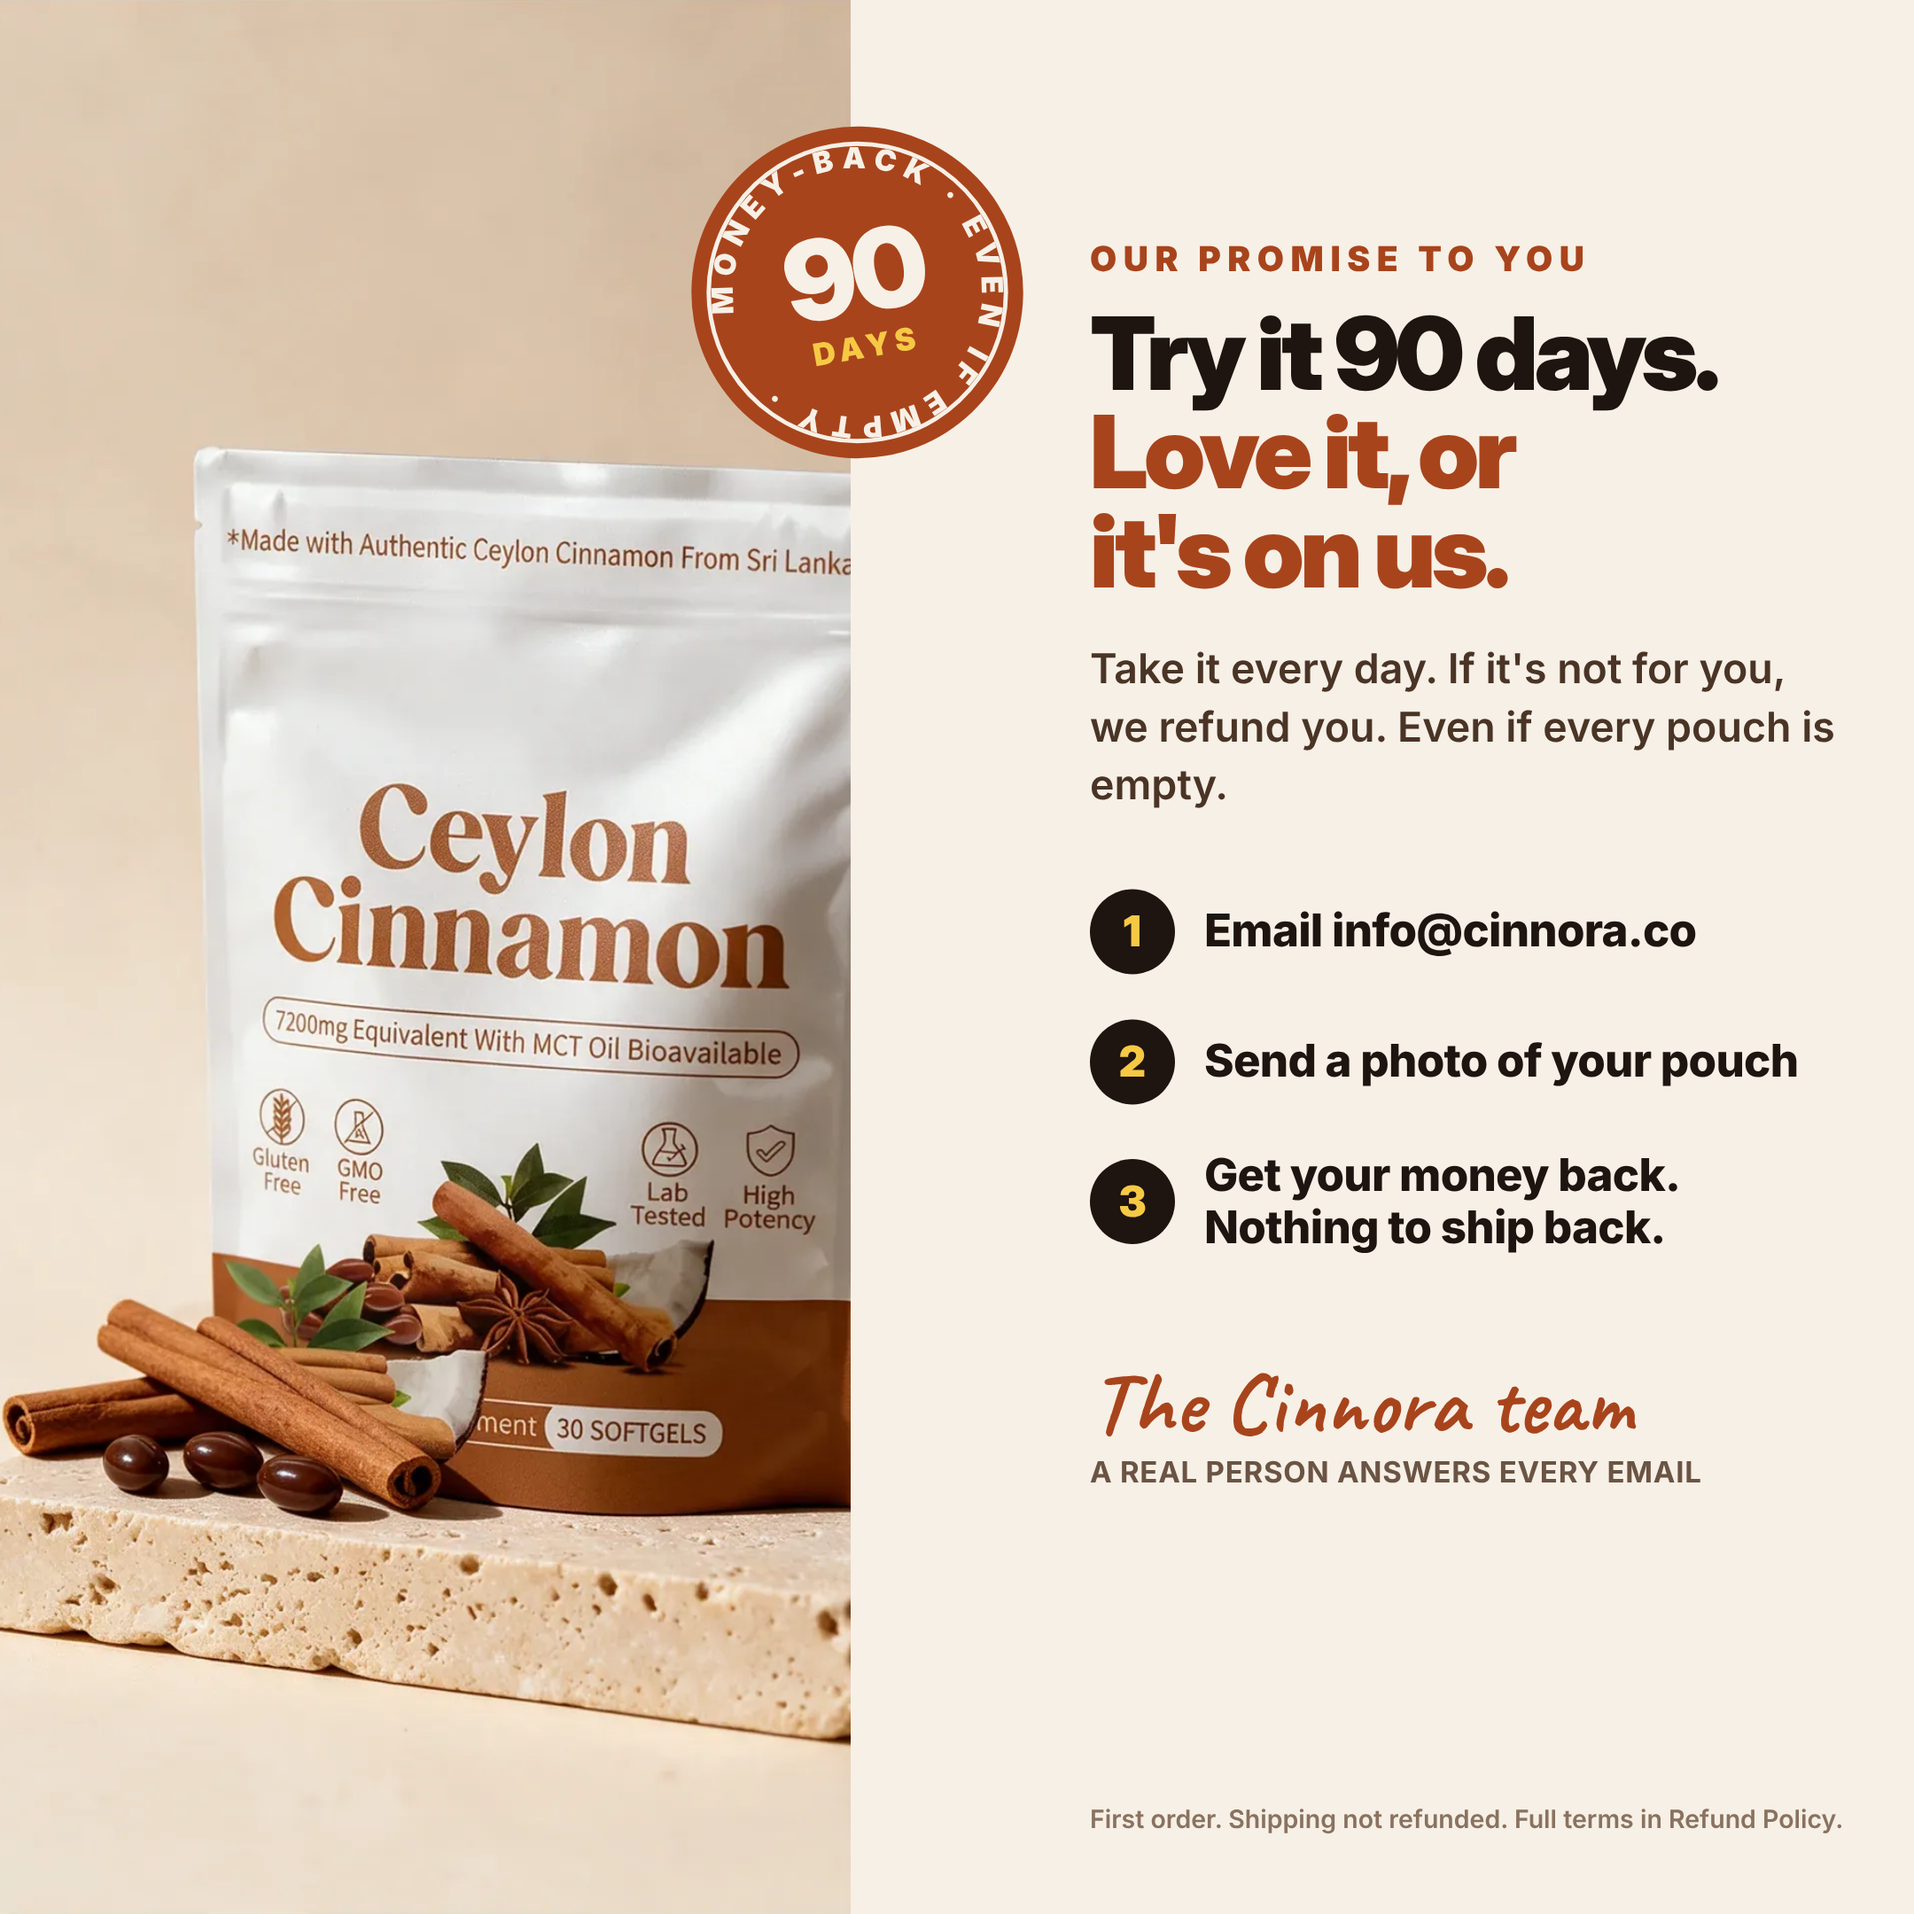
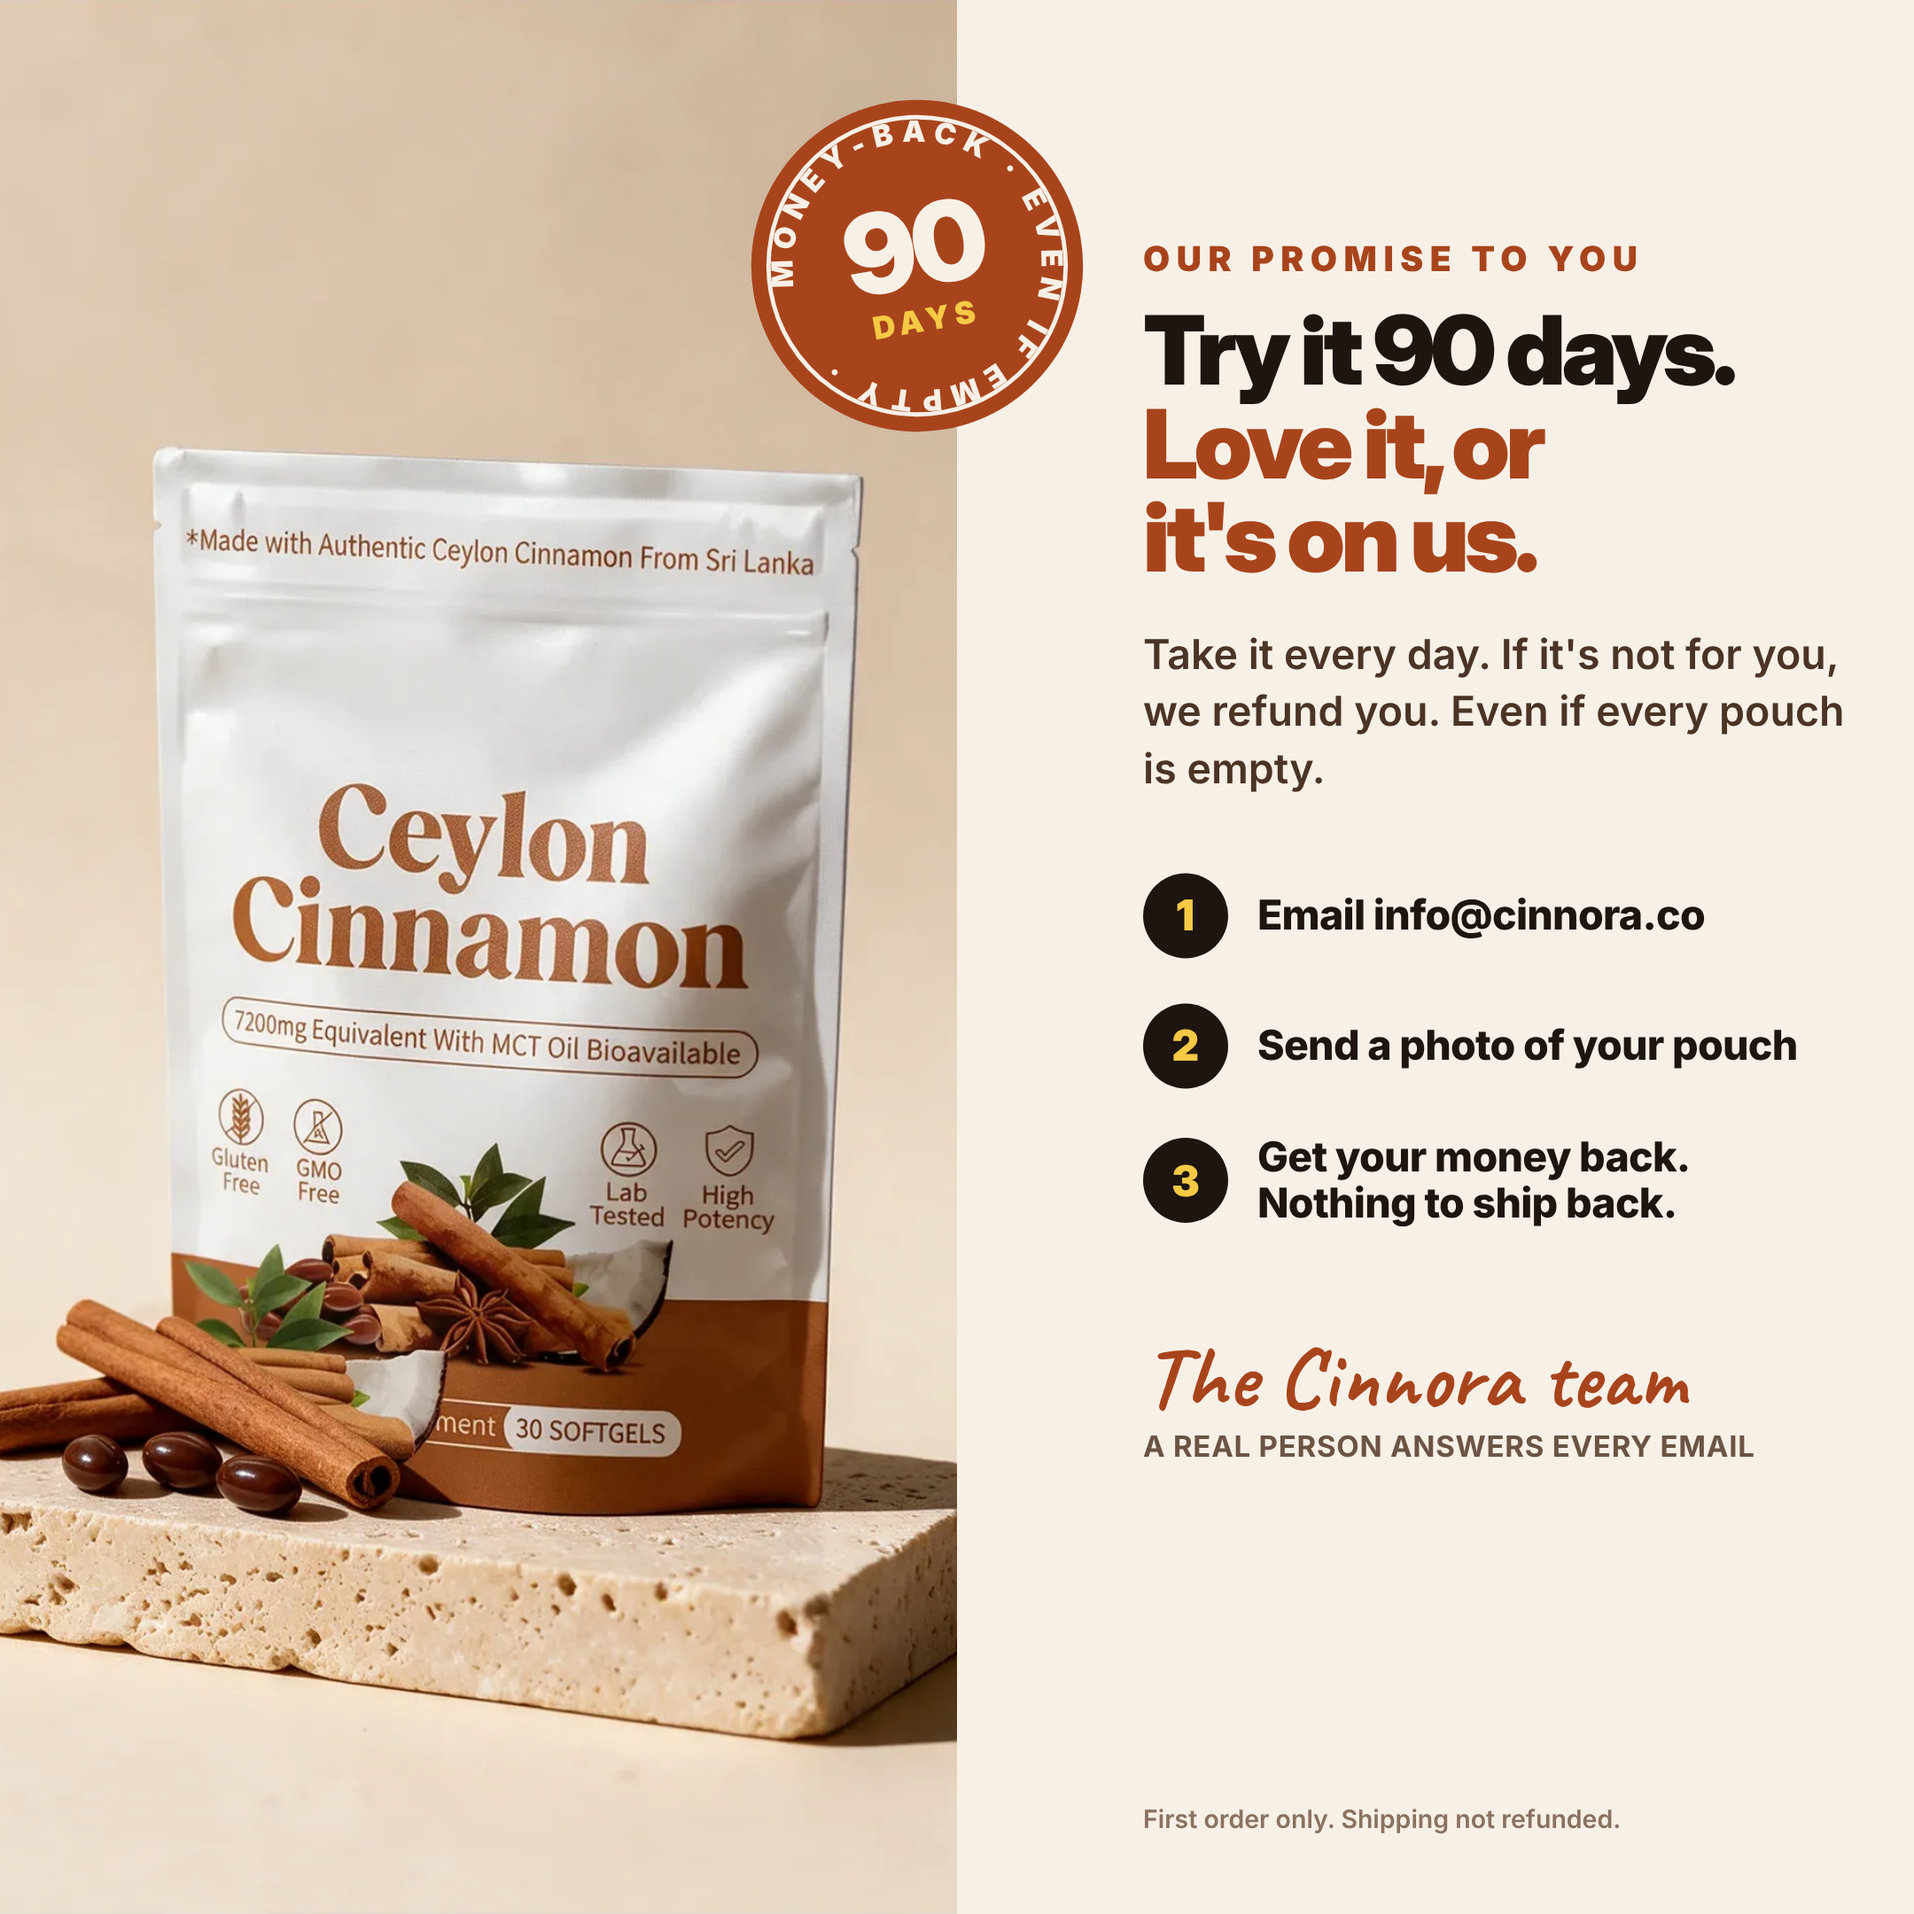
Cinnora: promise image layout fixes
Claude-Session: https://claude.ai/code/session_01WXdKv4Lmy6DFabBeRvSUZr

diff --git a/ceylon-cinnamon/hero/promise.html b/ceylon-cinnamon/hero/promise.html
@@ -2,20 +2,20 @@
 @font-face{font-family:Caveat;src:url(caveat.woff2)}
 *{box-sizing:border-box;margin:0;padding:0}
 #s{width:1440px;height:1440px;position:relative;overflow:hidden;font-family:'Inter',sans-serif;color:#1E1410;background:#F7F0E6}
-.side{position:absolute;left:0;top:0;bottom:0;width:640px;background:url(pouch-studio-b.png) 38% 50%/auto 100% no-repeat #E9D3B6}
-.seal{position:absolute;left:515px;top:90px;width:260px;height:260px;transform:rotate(-10deg)}
-.col{position:absolute;left:820px;top:180px;width:570px}
+.side{position:absolute;left:0;top:0;bottom:0;width:720px;background:url(pouch-studio-b.png) 55% 50%/auto 100% no-repeat #E9D3B6}
+.seal{position:absolute;left:560px;top:70px;width:260px;height:260px;transform:rotate(-10deg)}
+.col{position:absolute;left:860px;top:180px;width:540px}
 .k{color:#A8441C;font-weight:900;font-size:26px;letter-spacing:5px}
-.h{font-family:'Inter Display';font-weight:900;font-size:76px;letter-spacing:-3px;line-height:.98;margin-top:18px}
+.h{font-family:'Inter Display';font-weight:900;font-size:72px;letter-spacing:-3px;line-height:.98;margin-top:18px}
 .h b{color:#A8441C}
 .p{font-weight:600;font-size:31px;line-height:1.4;color:#4A3426;margin-top:30px}
 .steps{margin-top:56px;display:flex;flex-direction:column;gap:34px}
 .st{display:flex;align-items:center;gap:22px}
 .st .n{flex:0 0 64px;height:64px;border-radius:50%;background:#1E1410;color:#F6C945;font-family:'Inter Display';font-weight:900;font-size:32px;display:grid;place-items:center}
-.st .t{font-weight:800;font-size:34px;letter-spacing:-.5px;line-height:1.15}
+.st .t{font-weight:800;font-size:31px;letter-spacing:-.5px;line-height:1.15}
 .sig{margin-top:80px;font-family:Caveat;font-size:66px;color:#A8441C;line-height:1}
 .sig small{display:block;font-family:Inter;font-weight:700;font-size:22px;color:#6B5444;margin-top:8px;letter-spacing:.5px}
-.fine{position:absolute;left:820px;right:40px;bottom:60px;font-size:19px;font-weight:600;color:#8A7260}
+.fine{position:absolute;left:860px;right:40px;bottom:60px;font-size:19px;font-weight:600;color:#8A7260}
 </style></head><body><div id="s">
 <div class="side"></div>
 <svg class="seal" viewBox="0 0 200 200">
@@ -35,5 +35,5 @@
  </div>
  <div class="sig">The Cinnora team<small>A REAL PERSON ANSWERS EVERY EMAIL</small></div>
 </div>
-<div class="fine">First order. Shipping not refunded. Full terms in Refund Policy.</div>
+<div class="fine">First order only. Shipping not refunded.</div>
 </div></body></html>
